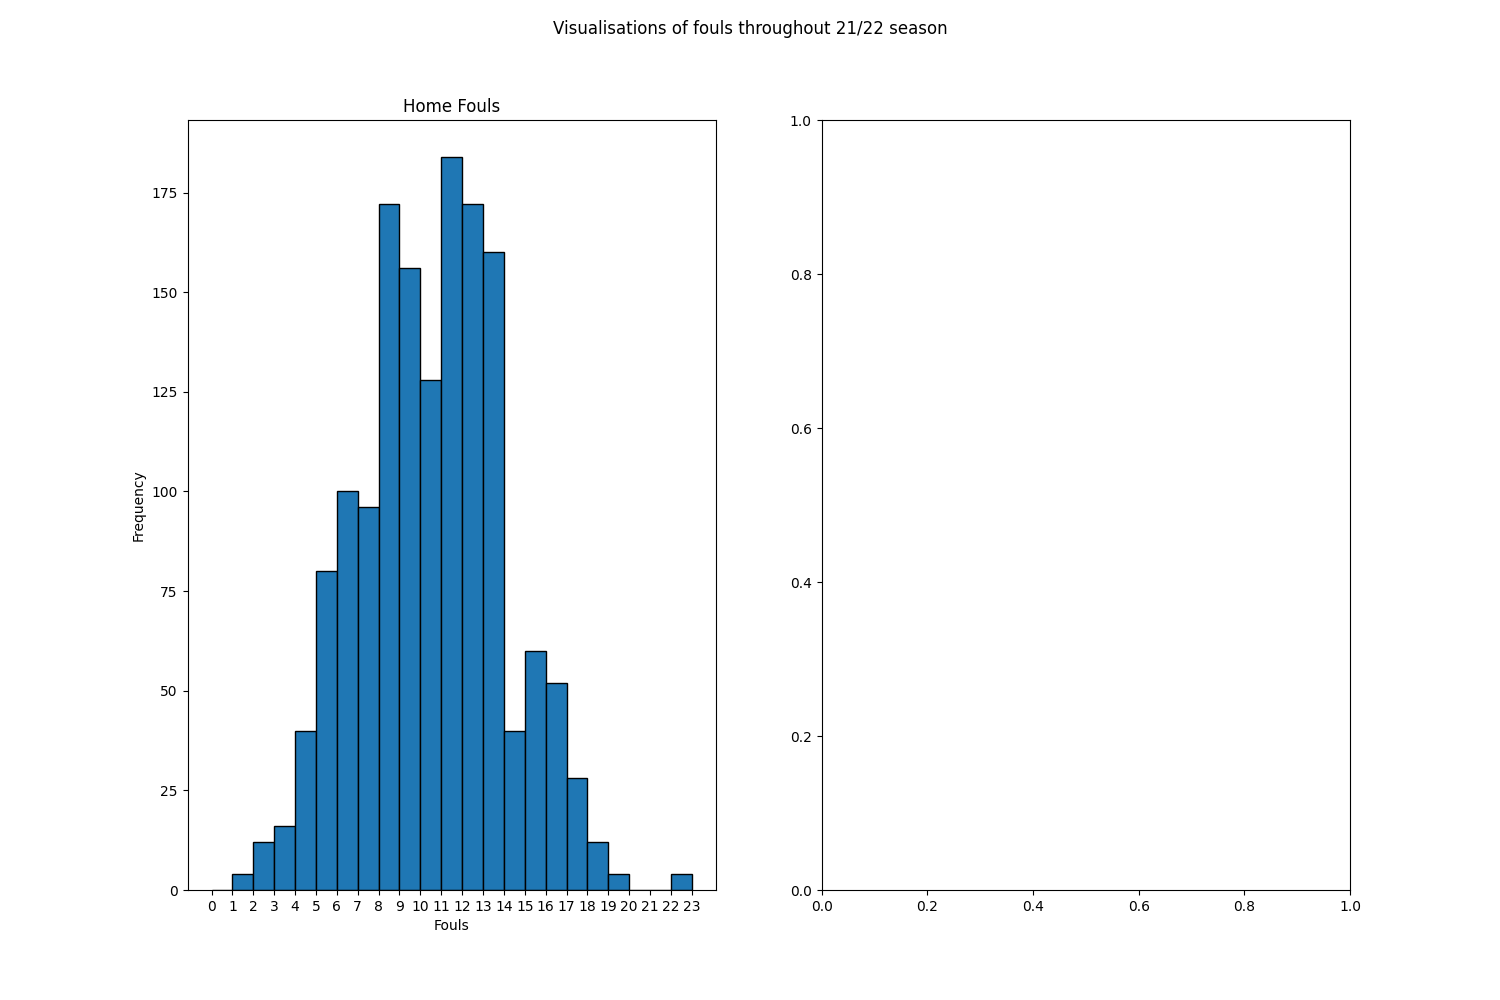
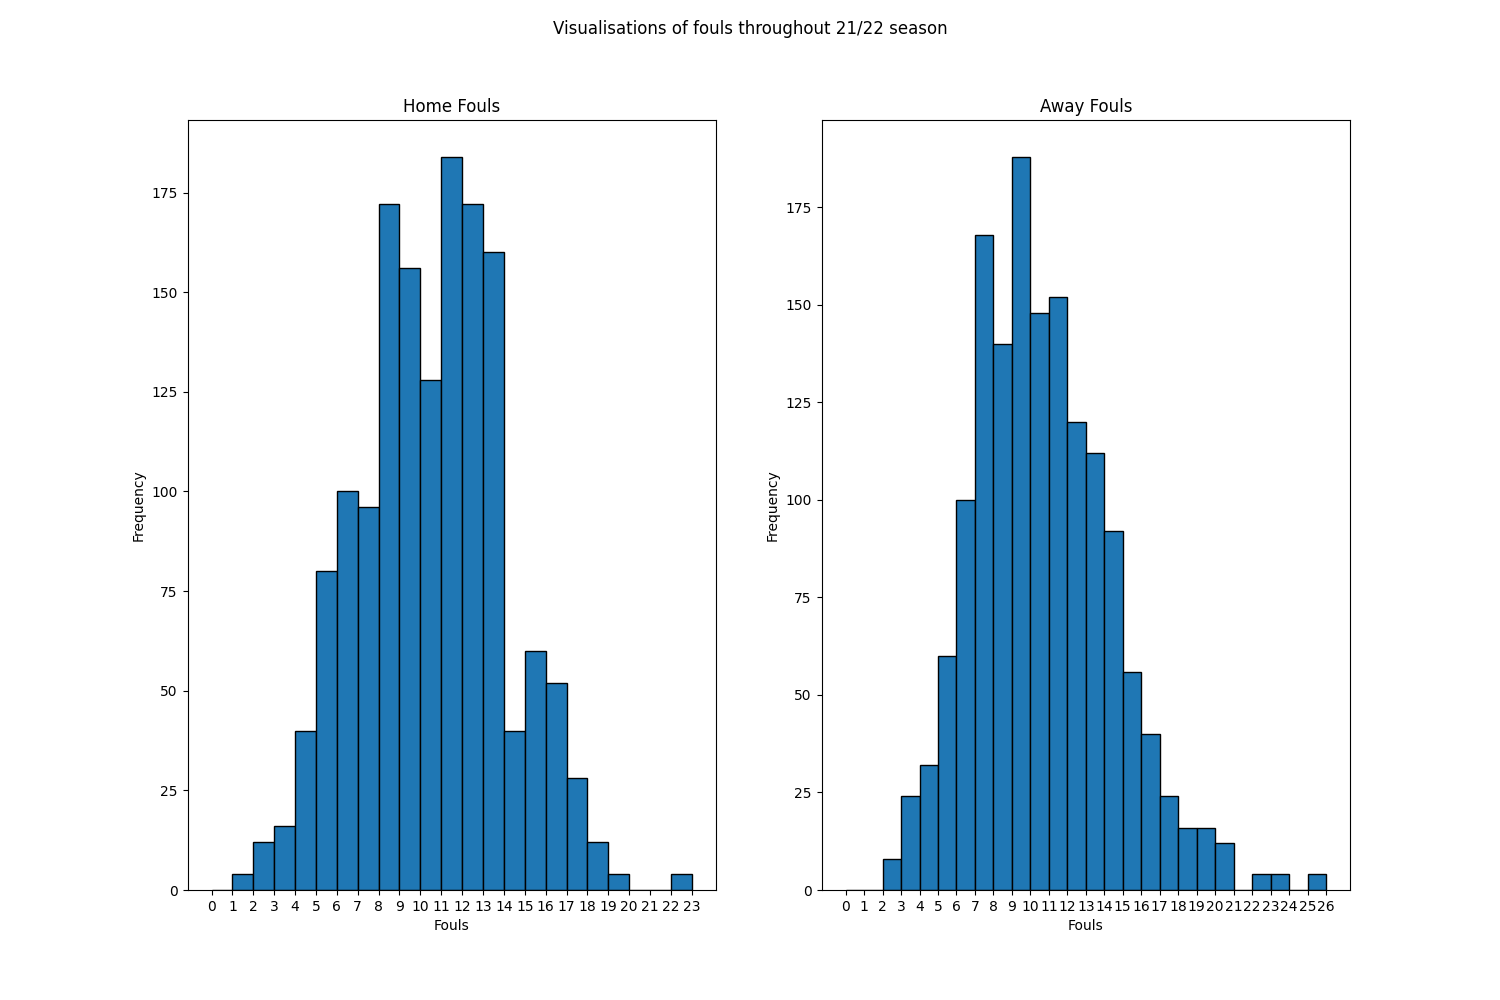
fixed histogram problems

diff --git a/visualisations.py b/visualisations.py
@@ -2,23 +2,36 @@ from main import *
 import matplotlib.pyplot as plt
 
 def histogram_from_data(home_fouls, away_fouls):
+    # creates the figure and axis object
     fig, ax = plt.subplots(1,2, figsize=(15,10))
     
     fig.suptitle("Visualisations of fouls throughout 21/22 season")
     
+    #sets title
     ax[0].set_title("Home Fouls")
     
     ax[0].set_xlabel("Fouls")
     ax[0].set_ylabel("Frequency")
     
-    bins = range(0, int(max(home_fouls)) + 2)
+    x_bins = range(1, int(max(home_fouls)))
     
-    ax[0].set_xticks(bins)
-    ax[0].hist(home_fouls, bins, ec="black")
+    ax[0].set_xticks(x_bins)
+    ax[0].hist(home_fouls, x_bins, ec="black")
     
+    ax[1].set_title("Away Fouls")
+    
+    ax[1].set_xlabel("Fouls")
+    ax[1].set_ylabel("Frequency")
+    
+    y_bins = range(1, int(max(away_fouls)))
+    
+    ax[1].set_xticks(y_bins)
+    ax[1].hist(away_fouls, y_bins, ec="black")
+    
+    #show the histograms
     plt.show()
-    # save the figure
-    fig.savefig("exercise_1.png")
+    # save the figures as a png
+    fig.savefig("histograms.png")
 
 def box_plots_from_data():
     pass

diff --git a/main.py b/main.py
@@ -1,6 +1,5 @@
 import pydoc
 import matplotlib.pyplot as plt
-from visualisations import *
 
 
 # initializing the lists globally for use with entire file.
@@ -246,4 +245,3 @@ if __name__ == "__main__":
     get_pearson_mode_skewness_of_fouls(games_in_season, total_fouls_per_game_in_season)
     get_alternative_pearson_mode_skewness_of_fouls(games_in_season, total_fouls_per_game_in_season)
     get_correlation_of_fouls(home_fouls, away_fouls)
-    histogram_from_data(home_fouls, away_fouls)
